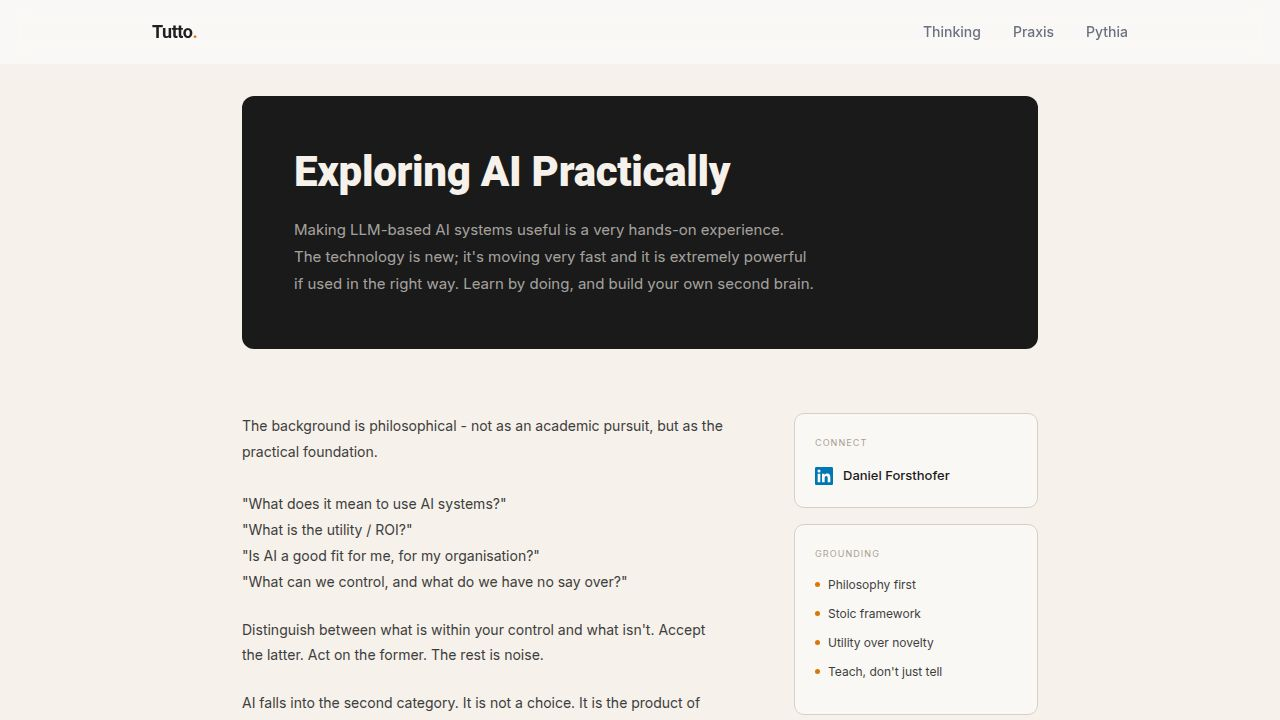
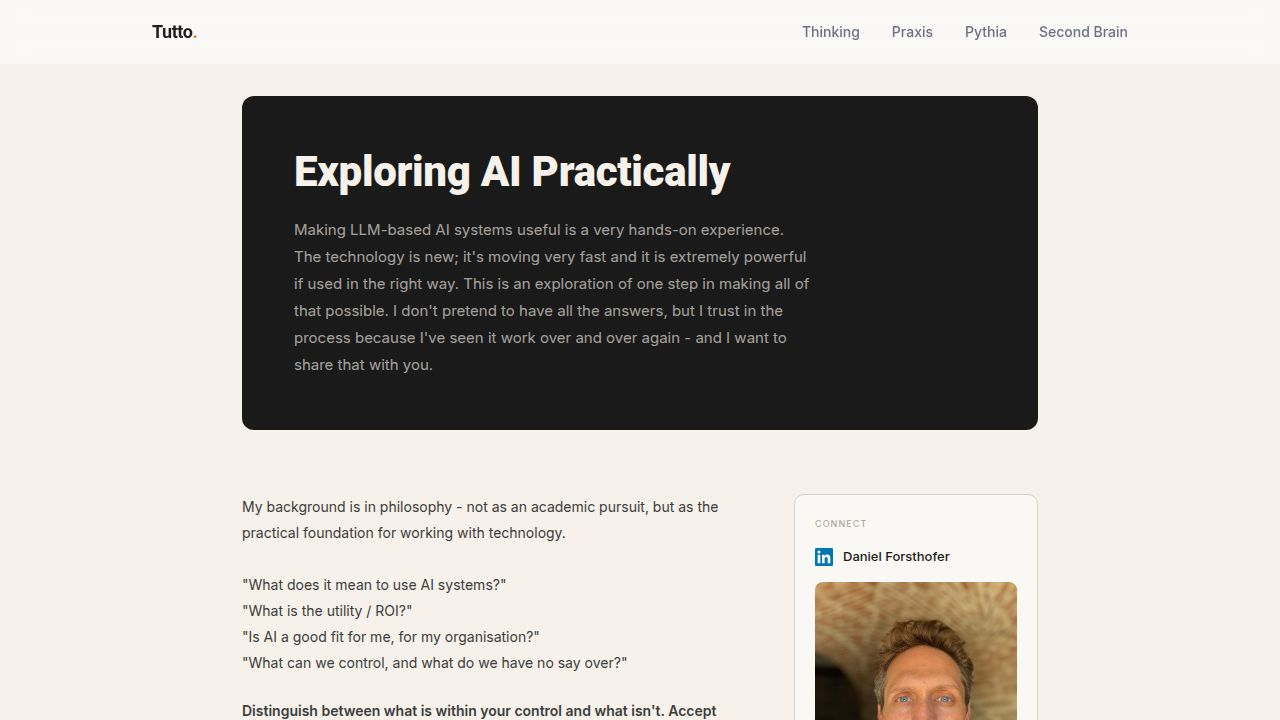
Add user profile image to the about page sidebar
Add a profile image to the about page sidebar in `client/src/pages/about.tsx`.

Replit-Commit-Author: Agent
Replit-Commit-Session-Id: 6f5177ff-4e1c-4388-90c7-0fe39f6f208f
Replit-Commit-Checkpoint-Type: full_checkpoint
Replit-Commit-Event-Id: 8544283c-7102-4477-87e9-7f0f859ac4d7
Replit-Commit-Screenshot-Url: https://storage.googleapis.com/screenshot-production-us-central1/912b2e38-f087-439a-88a5-3d8857f18400/6f5177ff-4e1c-4388-90c7-0fe39f6f208f/QQQ4lAu
Replit-Helium-Checkpoint-Created: true

diff --git a/client/src/pages/about.tsx b/client/src/pages/about.tsx
@@ -225,6 +225,19 @@ export default function About() {
                 </svg>
                 Daniel Forsthofer
               </a>
+              <img
+                src="/profile.jpg"
+                alt="Daniel Forsthofer"
+                style={{
+                  width: "100%",
+                  borderRadius: 8,
+                  marginTop: 16,
+                  display: "block",
+                  objectFit: "cover",
+                  objectPosition: "center top",
+                  maxHeight: 220,
+                }}
+              />
             </div>
 
             <div
